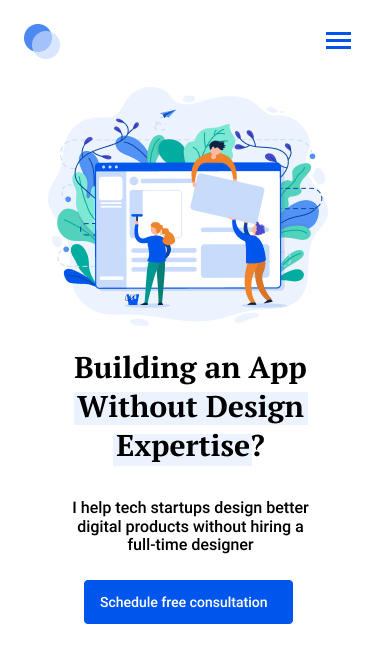
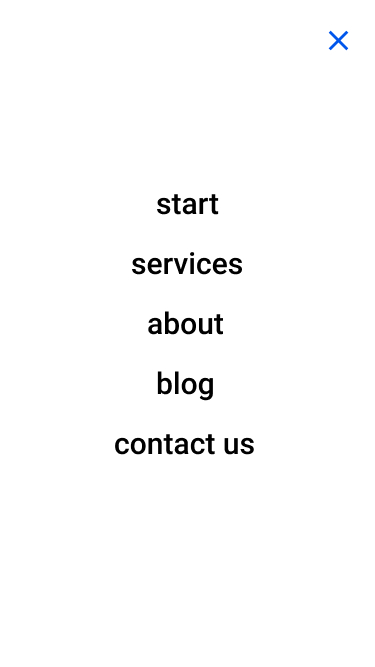
ccc

diff --git a/styles.css b/styles.css
@@ -1,10 +1,10 @@
 body {
     margin: 0;
 }
-.container { 
-    overflow: hidden; 
-}
 
+.container { 
+  overflow: hidden; 
+}
 element.stules {
     width: 32px;
     height: 198px;
@@ -133,7 +133,90 @@ element.stules {
         display: none;
         align-items: center;
     }
-   
+   /*---------------------------*/
+    /* скрываем чекбокс */
+#menu__toggle {
+    opacity: 0;
+  }
+  /* стилизуем кнопку */
+  .menu__btn {
+    display: flex; /* используем flex для центрирования содержимого */
+    align-items: center;  /* центрируем содержимое кнопки */
+    position: fixed;
+    top: 24px;
+    left: 326px;
+    width: 26px;
+    height: 26px;
+    cursor: pointer;
+    z-index: 1;
+  }
+  /* добавляем "гамбургер" */
+  .menu__btn > span,
+  .menu__btn > span::before,
+  .menu__btn > span::after {
+    display: block;
+    position: absolute;
+    width: 100%;
+    height: 3px;
+    background-color: #6509fa;
+  }
+  .menu__btn > span::before {
+    content: '';
+    top: -8px;
+  }
+  .menu__btn > span::after {
+    content: '';
+    top: 8px;
+  }
+
+/* контейнер меню */
+.menu__box {
+    display: block;
+    position: fixed;
+    visibility: hidden;
+    top: 14px;
+    left: -100%;
+    width: 300px;
+    height: 60%;
+    margin: 0;
+    padding: 160px 0;
+    list-style: none;
+    text-align: center;
+    background-color: #ECEFF1;
+    box-shadow: 1px 0px 6px rgba(0, 0, 0, .2);
+  }
+  /* элементы меню */
+  .menu__item {
+    display: block;
+    padding: 19.3px 0px;
+   /* letter-spacing: 1px; */
+    color: #333;
+    font-family: 'Roboto', sans-serif;
+    font-size: 30px;
+    font-weight: 500;
+    text-decoration: none;
+    left: 37px;
+  }
+  .menu__item:hover {
+    background-color: #CFD8DC;
+  }
+
+  #menu__toggle:checked ~ .menu__btn > span {
+    transform: rotate(45deg);
+  }
+  #menu__toggle:checked ~ .menu__btn > span::before {
+    top: 0;
+    transform: rotate(0);
+  }
+  #menu__toggle:checked ~ .menu__btn > span::after {
+    top: 0;
+    transform: rotate(90deg);
+  }
+  #menu__toggle:checked ~ .menu__box {
+    visibility: visible;
+    left: 0;
+  }
+ /*---------------------------*/
     .wrapper {
         margin: 0 auto;
         width: 95.5%;
@@ -213,5 +296,4 @@ element.stules {
         .points {
             display: none
         }
-        
     }

diff --git a/index.html b/index.html
@@ -12,13 +12,7 @@
         <link rel="stylesheet" href="./styles.css">
      </head>
 <body>
-    <div class="container">
-        <div class="hamburger-menu">
-            <input id="menu__toggle" type="checkbox" />
-            <label class="menu__btn" for="menu__toggle">
-              <span></span>
-            </label>
-     <div class="wrapper">
+       <div class="wrapper">
         <header class="header">
           <div class="logo"></div>
            <nav class="menu">
@@ -28,13 +22,19 @@
             <a class="menu__item" href="#">blog</a>
             <a class="menu__item" href="#">contact us</a>
         </nav>
-         <!-- <ul class="menu__box">
+        <div class="container">
+        <div class="hamburger-menu">
+            <input id="menu__toggle" type="checkbox" />
+            <label class="menu__btn" for="menu__toggle">
+              <span></span>
+            </label>
+         <ul class="menu__box">
             <li><a class="menu__item" href="#">start</a></li>
             <li><a class="menu__item" href="#">servises</a></li>
             <li><a class="menu__item" href="#">about</a></li>
             <li><a class="menu__item" href="#">blog</a></li>
             <li><a class="menu__item" href="#">contact us</a></li>
-          </ul> -->
+          </ul>
         
         </header>
     <section class="main">
@@ -50,6 +50,6 @@
          <div class="points"></div>
     </div>
     </div>
-    <!-- </div> -->
+    </div>
     </body>
 </html>
